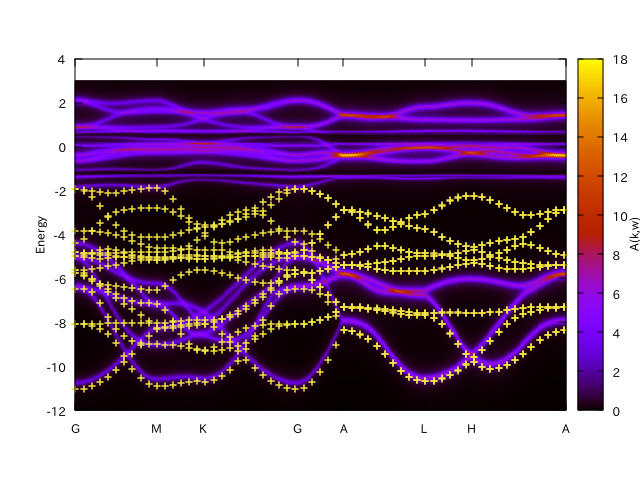
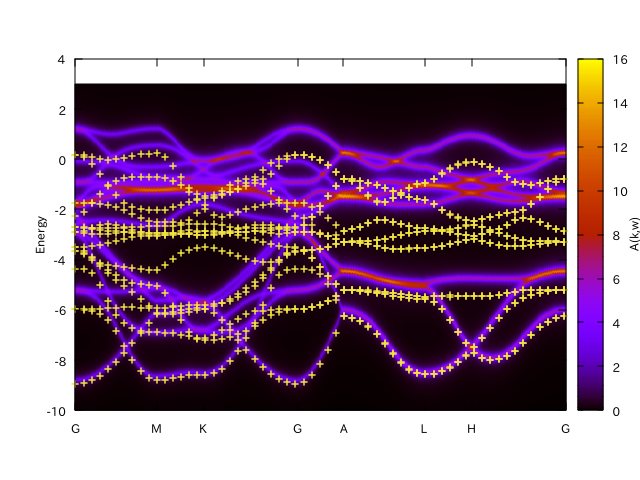
Activate double counting correction.

diff --git a/python/dmft_core.py b/python/dmft_core.py
@@ -172,8 +172,9 @@ class DMFTCoreSolver:
 
     def solve(self, max_step, output_file, output_group='dmft_output', dry_run=False):
         dc_type = int(self._params['system']['dc_type'])                        # DC type: -1 None, 0 FLL, 1 Held, 2 AMF
-        if dc_type != -1:
-            raise RuntimeError("dc_type != -1 is not supported!")
+        if dc_type == -1: with_dc = False
+        else: with_dc = True
+
         fix_mu = self._params['system']['fix_mu']
         if fix_mu:
             mu = self._params['system']['mu']
@@ -219,8 +220,13 @@ class DMFTCoreSolver:
         previous_present = previous_runs > 0
         if previous_present:
             if mpi.is_master_node():
-                print("Broadcasting Sigma_iw... ")
-            for ish in range(nsh): S[ish].Sigma_iw << mpi.bcast(S[ish].Sigma_iw)
+                SK.chemical_potential, SK.dc_imp, SK.dc_energ = SK.load(['chemical_potential', 'dc_imp', 'dc_energ'])
+                print("Broadcasting Sigma_iw, chemical_potential, dc_imp, dc_energ... ")
+            for ish in range(nsh):
+                S[ish].Sigma_iw << mpi.bcast(S[ish].Sigma_iw)
+                SK.chemical_potential = mpi.bcast(SK.chemical_potential)
+                SK.dc_imp = mpi.bcast(SK.dc_imp)
+                SK.dc_energ = mpi.bcast(SK.dc_energ)
 
         if mpi.is_master_node():
             ar = HDFArchive(output_file, 'a')
@@ -238,17 +244,16 @@ class DMFTCoreSolver:
                 SK.set_mu(chemical_potential)
             else:
                 SK.calc_mu( precision = prec_mu )  # find the chemical potential for given density
-            G_iw_all = SK.extract_G_loc()
+            G_iw_all = SK.extract_G_loc(with_dc=with_dc)
             for ish in range(nsh):
                 S[ish].G_iw << G_iw_all[ish]                         # calc the local Green function
                 mpi.report("\n    Total charge of Gloc : %.6f"%S[ish].G_iw.total_density())
 
             # Init the DC term and the real part of Sigma, if no previous runs found:
-            if (iteration_number==1 and previous_present==False):
+            if (iteration_number==1 and previous_present==False and with_dc):
                 for ish in range(nsh):
                     dm = S[ish].G_iw.density()
-                    if dc_type >= 0:
-                        SK.calc_dc(dm, orb=ish, U_interact = self._U_int, J_hund = self._J_hund, use_dc_formula = dc_type)
+                    SK.calc_dc(dm, orb=ish, U_interact = self._U_int, J_hund = self._J_hund, use_dc_formula = dc_type)
                     S[ish].Sigma_iw << SK.dc_imp[self._SK.inequiv_to_corr[ish]]['up'][0,0]
 
             # Calculate new G0_iw to input into the solver:
@@ -319,9 +324,9 @@ class DMFTCoreSolver:
                 del ar
 
             # Set the new double counting:
-            for ish in range(nsh):
-                dm = S[ish].G_iw.density() # compute the density matrix of the impurity problem
-                if dc_type >= 0:
+            if with_dc:
+                for ish in range(nsh):
+                    dm = S[ish].G_iw.density() # compute the density matrix of the impurity problem
                     SK.calc_dc(dm, orb = ish, U_interact = self._U_int, J_hund = self._J_hund, use_dc_formula = dc_type)
 
             # Save stuff into the user_data group of hdf5 archive in case of rerun:

diff --git a/python/dcore_post.py b/python/dcore_post.py
@@ -66,6 +66,11 @@ class DMFTCoreTools:
         Sol = self._solver
         S = self._solver._S
         nsh = SKT.n_inequiv_shells
+        dc_type = int(self._params['system']['dc_type'])  # DC type: -1 None, 0 FLL, 1 Held, 2 AMF
+        if dc_type == -1:
+            with_dc = False
+        else:
+            with_dc = True
 
         if mpi.is_master_node():
             print("\n  @ Compute Green' function at the real frequency")
@@ -116,7 +121,7 @@ class DMFTCoreTools:
         if mpi.is_master_node(): print("\n  @ Compute (partial) DOS")
         dos, dosproj, dosproj_orb = SKT.dos_wannier_basis(broadening=self._broadening,
                                                           mesh=[self._omega_min, self._omega_max, self._Nomega],
-                                                          with_Sigma=True, with_dc=False, save_to_file=False)
+                                                          with_Sigma=True, with_dc=with_dc, save_to_file=False)
         #
         # Print DOS to file
         #
@@ -465,7 +470,7 @@ def dcore_post(filename):
             print("set xtics (\\", file=f)
             for inode in range(nnode-1):
                 print("  \"{0}\"  {1}, \\".format(klabel[inode], xk_label[inode]), file=f)
-            print("  \"{0}\"  {1} \\".format(klabel[inode], xk_label[inode]), file=f)
+            print("  \"{0}\"  {1} \\".format(klabel[nnode-1], xk_label[nnode-1]), file=f)
             print("  )", file=f)
             print("set pm3d map", file=f)
             print("#set pm3d interpolate 5, 5", file=f)
